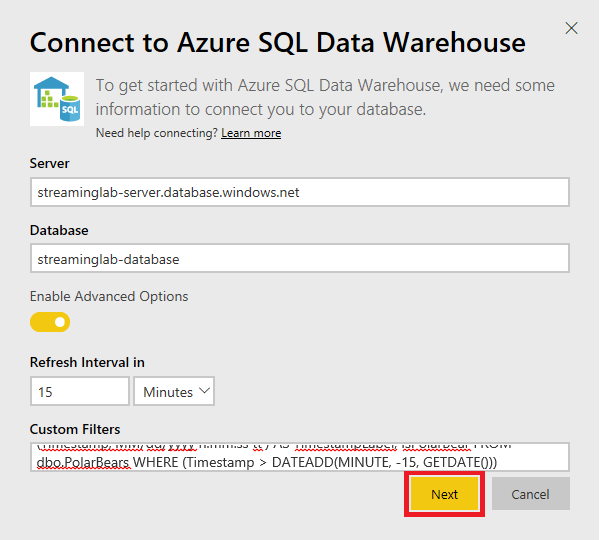
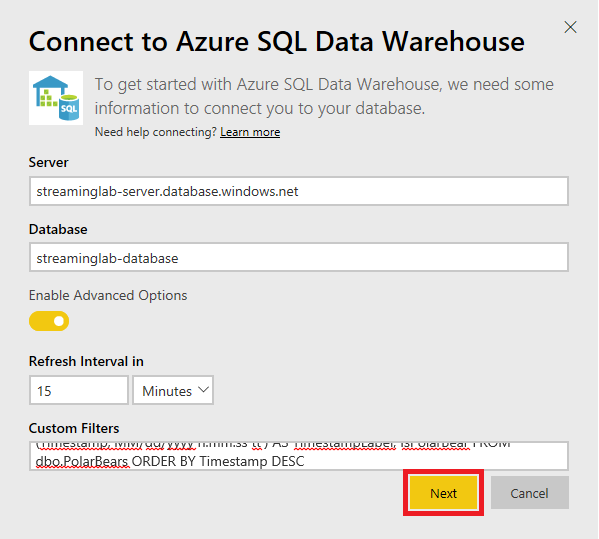
Updated Lab 4 in second 400 lab

diff --git a/Stream Analytics with Machine Learning (400)/4 - Visualize/readme.md b/Stream Analytics with Machine Learning (400)/4 - Visualize/readme.md
@@ -36,7 +36,7 @@ This hands-on lab includes the following exercises:
 
 - [Exercise 1: Connect Power BI to Azure SQL](#Exercise1)
 - [Exercise 2: Build a report in Power BI](#Exercise2)
-- [Exercise 3: Enhance and format visualizations](#Exercise3)
+- [Exercise 3: Run the end-to-end solution](#Exercise3)
  
 Estimated time to complete this lab: **30** minutes.
 
@@ -67,10 +67,10 @@ In the previous lab, you used the [Custom Vision Service](https://azure.microsof
 
     _Connecting to an Azure SQL Data Warehouse_
 
-1. Enter the server's host name (the server name plus ".database.windows.net" since it's an Azure SQL database server) and database name that you specified when you created the database and database server in the previous lab. Enable **Enable Advanced Options**, and then type the query below into the **Custom Filters** box to select all rows in the "PolarBears" table that have been added in the last 15 minutes. When you're done, click **Next**.
+1. Enter the server's host name (the server name plus ".database.windows.net" since it's an Azure SQL database server) and database name that you specified when you created the database and database server in the previous lab. Enable **Enable Advanced Options**, and then type the query below into the **Custom Filters** box to select the 20 most recently added rows in the "PolarBears" table. When you're done, click **Next**.
 
 	```sql
-	SELECT Id, CameraId, Latitude, Longitude, Url, Timestamp, FORMAT(Timestamp,'MM/dd/yyyy h:mm:ss tt') AS TimestampLabel, IsPolarBear FROM dbo.PolarBears WHERE (Timestamp > DATEADD(MINUTE, -15, GETDATE()))
+	SELECT TOP 20 Id, CameraId, Latitude, Longitude, Url, Timestamp, FORMAT(Timestamp,'MM/dd/yyyy h:mm:ss tt') AS TimestampLabel, IsPolarBear FROM dbo.PolarBears ORDER BY Timestamp DESC
 	```
 
     ![Specifying a database and filter](Images/connect-to-database-3.png)
@@ -83,7 +83,7 @@ In the previous lab, you used the [Custom Vision Service](https://azure.microsof
 
     _Entering admin credentials_
 
-After a short delay, Power BI will connect to the database and import a dataset using the query you provided. The next step is create a report using that dataset.
+After a short delay, Power BI will connect to the database and import a dataset using the query you provided. The next step is to create a report using that dataset.
 
 <a name="Exercise2"></a>
 ## Exercise 2: Build a report in Power BI ##
@@ -98,11 +98,11 @@ Visualizations (or simply "visuals") are the primary element that make up Power 
 
 1. Click the **Map** icon in the "Visualizations" panel to add a map visual to the report.
 	
-	![Adding a Map visual](Images/portal-select-map-visual.png)
+	![Adding a map visual](Images/portal-select-map-visual.png)
 
-	_Adding a Map visual_
+	_Adding a map visual_
 
-1. Check the **Latitude** and **Longitude** boxes in the "Fields" panel to include these fields in the map.
+1. Check the **Latitude** and **Longitude** boxes in the "Fields" panel to include these fields in the visual.
 	
 	![Adding latitude and longitude](Images/portal-select-lat-long.png)
 
@@ -114,11 +114,17 @@ Visualizations (or simply "visuals") are the primary element that make up Power 
 
 	_Removing summary calculations_
 
-1. Return to the "Fields" panel and add the "IsPolarBear" field to the map.
+1. Return to the "Fields" panel and check the **IsPolarBear** box to add that field to the map. Then resize the map so that it looks something like this:
 
-1. Resize the map so that it fills more of the workspace. Then click in the empty area outside it to deselect it. Now check the **CameraId**, **IsPolarBear**, and **TimestampLabel** fields in the "Fields" panel to add a table visual containing those columns.
+	![Resizing the map visual](Images/map-visual.png)
 
-	![Adding a table visual](Images/add-table-visual.png)
+	_Resizing the map visual_
+
+	Note that the number and location of the "bubbles" in your map will probably be different than what's shown here.
+
+1. Click in the empty area outside the map to deselect it. Then check the **CameraId**, **IsPolarBear**, and **TimestampLabel** boxes in the "Fields" panel to add a table visual containing those columns to the report.
+
+	![Adding a table visual](Images/table-visual-1.png)
 
 	_Adding a table visual_
 
@@ -128,76 +134,133 @@ Visualizations (or simply "visuals") are the primary element that make up Power 
 
 	_Adding a pie-chart visual_
 
-1. Click the down arrow next to **Average of Latitude** and select **Count** from the menu to configure the pie chart to show a count of polar-bear sightings versus sightings that turned out *not* to be polar bears. 
+1. Click the down arrow next to **Average of Latitude** and select **Count** from the menu to configure the pie chart to show a count of sightings and the proportion of sightings that were polar bears. 
 
+	![Formatting the pie-chart visual](Images/pie-chart-visual.png)
 
+	_Formatting the pie-chart visual_
 
+1. Deselect the pie-chart visual and click the **Slicer** icon to add a slicer to the report. Slicers provide a convenient means for filtering information in a Power BI report, because they narrow the portion of the dataset shown in other visualizations on the page.
 
+	![Adding a slicer](Images/add-slicer.png)
 
+	_Adding a slicer_
 
+1. Select the **IsPolarBear** field in the "Fields" panel so the slicer shows checkboxes labeled "True" and "False." 
 
-1. Finally, deselect the PieChart visual, then click the **Slicer visual** from the "Visualizations" panel to add a Slicer to the workspace. With the Slicer active, select the **IsPolarBear** field in the "Fields" panel. The Slicer visual is a great way of filtering information in a Power BI report, as it narrows the portion of the dataset shown in the other visualizations on the page.
+	![Formatting the slicer](Images/slicer-visual.png)
 
-1. Test the ability of the Slicer to filter information in the report by selecting and deselecting True and False values from the visual and observe the real-time changes to other report visuals, including geographical map locations.
+	_Formatting the slicer_
 
-1. Save your report by clicking **Save** from the top-right report designer menu, enter "Polar Bear activity" as the report name, then click **Save**.
+1. Now resize and reposition the visuals to achieve a layout similar to this:
 
-With a number of rich, interactive visuals added to your Power BI report, it's pretty simple to get up-to-date insight into Polar Bear sightings and camera activity. For example, the Map visual is fully interactive, making it easy to zoom in and out of a region, or select a pushpin to view information associated with specific activity, such as camera identification and activity timestamps.
+	![Adjusting the layout](Images/layout.png)
 
-In the final exercise, you will be "souping up" your report by adjusting the layout, and formatting report visuals, to create beautiful, compelling report experience.
+	_Adjusting the layout_
+
+1. With the report structure in place, the next task is to use some of Power BI's rich formatting options to embellish the visuals. Start by selecting the map visual in the report designer, and then clicking the **Format** tab in the "Visualizations" panel.
+
+	![Formatting the map visual](Images/format-map.png)
+
+	_Formatting the map visual_
+
+1. Use the formatting controls in the "Visualizations" panel to make the following changes to the map visual:
+
+	- Under "Legend," set "Legend Name" to "Polar bear sighted?"
+	- Under "Data Colors," set the color for False to 00FF00 (pure green) and the color for True to FF0000 (pure red)
+	- Under "Bubbles," set  the bubble size to 30%
+	- Under "Map styles," set the theme to "Aerial"
+	- Turn "Title" from on to off
+
+	Confirm that the resulting map visual looks something like this:
+
+	![Formatted map visual](Images/formatted-map-visual.png)
+
+	_Formatted map visual_
+
+1. Select the pie-chart visual and use the formatting controls in the "Visualizations" panel to make the following changes:
+
+	- Under "Data Colors," set set the color for False to 00FF00 and the color for True to FF0000
+	- Under "Detail  labels," change the label style to "Data value, percent of total"
+	- Under "Title," change the title text to "Proportion of polar bear sightings"
+
+	Confirm that the resulting pie-chart visual resembles this:
+
+	![Formatted pie-chart visual](Images/formatted-pie-chart-visual.png)
+
+	_Formatted pie-chart visual_
+
+1. Select the table visual and use the formatting controls in the "Visualizations" panel to make the following changes:
+
+	- Under "Table style," change to style to "Alternating rows"
+	- Turn "Title" on, and change the title text to "Camera activity" 
+
+	Confirm that the resulting table visual looks like this:
+
+	![Formatted table visual](Images/formatted-table-visual.png)
+
+	_Formatted table visual_
+
+1. Select the slicer visual and use the formatting controls in the "Visualizations" panel to make the following changes:
+
+	- Under "Selection Controls," set "Single Select" to off
+	- Turn "Header" off
+	- Turn "Title" on and set the title text to "Show sightings that are:"
+
+1. Double-click **Page 1** in the bottom-left corner of the designer and change the report title to "Polar Bear Activity."
+
+1. Save the report by clicking **Save** in the upper-right corner of the page. Enter a report name such as "Polar Bear Activity."
+
+The formatted report should resemble the one below. Feel free to embellish it further. You could, for example, add a title in a large font at the top of the report. Once you're satisfied with the layout and content, let's put it to work using a live data source.
+
+![The formatted report](Images/formatted-report.png)
+
+_The formatted report_
 
 <a name="Exercise3"></a>
-## Exercise 3: Enhance and format visualizations ##
+## Exercise 3: Run the end-to-end solution ##
 
-In this exercise, you will be adjusting the layout and formatting of the report created in the previous exercise, to deliver a stunning, interactive report using Power BI theming, formatting, and layout tools.
+Now that the report is prepared in Power BI, your final task is to run the end-to-end solution that you built in this series of hands-on labs. Let's go sight some polar bears!
 
-1. Open the [Power BI services portal](https://powerbi.microsoft.com "Power BI services portal"), if not already open from the previous exercise, and select **Reports** > **Polar Bear activity** from the left-navigation menu to view your report.
+1. Open the database that you created in [Lab 3](#) in the [Azure Portal](https://portal.azure.com) and use the Data Explorer to execute the following query to delete all rows from the "PolarBears" table:
 
-1. Select the **Map visual** by placing your mouse cursor anywhere within the visual, then select the **Format tab** from the "Visualizations" panel.
+	```sql
+	DELETE * FROM dbo.PolarBears
+	```
 
-	![The Visualizations panel Format tab](Images/portal-select-format-tab.png)
-	_The Visualizations panel Format tab_
+1. Open the Stream Analytics job that you created in [Lab 2](#) in the Azure Portal and start the job running.
 
-1. Expand the **Legend** group and change "Legend Name" to "Polar Bear sighted?".
+1. Wait until the job is running. Then open a Command Prompt or terminal window and ```cd``` to the project directory you created in [Lab 1](#). Use the following command to start the virtual cameras running:
 
-1. Expand the **Data colors** group, select the color drop-down for the "False" value, select **Custom Color**, then enter "00FF00" (pure green) for the value. Repeat this process for the "True" value and enter "FF0000" (pure red) for the value, then observer the changes to the Map visual. Red values now indicate Polar Bear activity while green values indicate non-Polar Bear activity.
+	```
+	node run.js
+	```
 
-1. Still on the Format tab, expand the **Bubbles** group and change the size of map bubbles from 1% to **30%** for improved map visibility.
+1. Return to the Power BI report in the Power BI service portal and refresh the page in the browser every 15 seconds or so.
 
-1. Expand the **Map styles** group and change the theme from Road to **Aerial** for a more realistic view of map terrain.
+1. Confirm that red and green bubbles appear at various locations around the island. Red bubbles indicate the presence of polar bears, while green bubbles represent locations where a photo was taken, but the photo didn't contain a polar bear.
 
-1. Finally, change the value of "Title" to **Off**.
+	![tk](Images/tk.png)
 
-1. Select the **PieChart visual** by placing your mouse cursor anywhere within the visual, then select the **Format tab** from the "Visualizations" panel.
+	_tk_
 
-1. Expand the **Data colors** group, and repeat the process of changing the "False" value to "00FF00" (pure green) and the "True" color to "FF0000" (pure red) for the value, then observer the changes to the PieChart visual.
+1. tk.
 
-1. Expand the **Data labels** group and change "Label style" to **Data value, percent of total**.
+	![tk](Images/tk.png)
 
-1. Finally, expand the **Title** group and change the value to "Polar Bear sightings by proportion", and observe the changes to the visual.
+	_tk_
 
-1. Select the **Table visual** by placing your mouse cursor anywhere within the visual, then select the **Format tab** from the "Visualizations" panel.
+1. tk.
 
-1. Expand the **Table style** group and change "Style" to **Alternative rows**.
+	![tk](Images/tk.png)
 
-1. Finally, expand the **Title** group, change "Title" to **On**, then change **Text Title** to "Camera activity", and observe the changes to the visual.
+	_tk_
 
-1. Select the **Slicer visual** by placing your mouse cursor anywhere within the visual, then select the **Format tab** from the "Visualizations" panel.
+TODO: Add closing.
 
-1. Expand the **Selection Controls** group and change "Single Select" to **Off**.
+<a name="Summary"></a>
+## Summary ##
 
-1. Still on the Format tab, change the value of "Header" to **Off**.
- 
-1. Finally, expand the **Title** group, change "Title" to **On**, then change **Text Title** to "Show where Polar Bear activity is:", and observe the changes to the visual.
-
-1. Edit the report title by double-clicking the "Page 1" label in the bottom left of the report workspace, then rename the report to "Hourly Polar Bear Activity".
-
-With your report visuals formatted, the process of adjusting layouts can be accomplished by dragging element corners and visuals around the workspace until a desired layout is achieved.
-
-1. Drag and resize each report visual individually to create a clean, logical layout for easy user interaction and viewing, providing the most space to the Map visual, and the least amount of space to the Slicer visual.
-
-1. Save your report by clicking **Save** from the top-right report designer menu, enter "Polar Bear activity" as the report name, then click **Save**.
- 
 With your Power BI report formatted and the layout adjusted for a great experience, sharing your report is a breeze. Sharing can be achieved in a number of ways, the most popular being to create a Power BI Dashboard and sharing the Dashboard with other users in your organization.
 
 To create and share a Power BI Dashboard:
@@ -205,12 +268,7 @@ To create and share a Power BI Dashboard:
 1. In the Power BI report workspace, click **Pin Live Page**, select **New Dashboard**, then name the Dashboard "Hourly Polar Bear Activity", and click **Pin Live**.
 
 1. Select **Hourly Polar Bear Activity** from the "Dashboards" panel in the left-menu, then click **Share** in the top-right workspace menu. More information about sharing dashboards can be found at: [Share Power BI Dashboards and Reports](https://docs.microsoft.com/en-us/power-bi/service-how-to-collaborate-distribute-dashboards-reports "Share Power BI Dashboards and Reports").
-
-<a name="Summary"></a>
-## Summary ##
-
-TODO: Add summary.
-
+2. 
 ---
 
 Copyright 2017 Microsoft Corporation. All rights reserved. Except where otherwise noted, these materials are licensed under the terms of the MIT License. You may use them according to the license as is most appropriate for your project. The terms of this license can be found at https://opensource.org/licenses/MIT.
